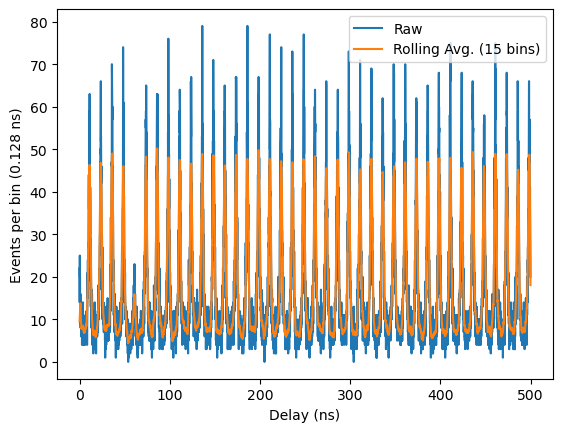
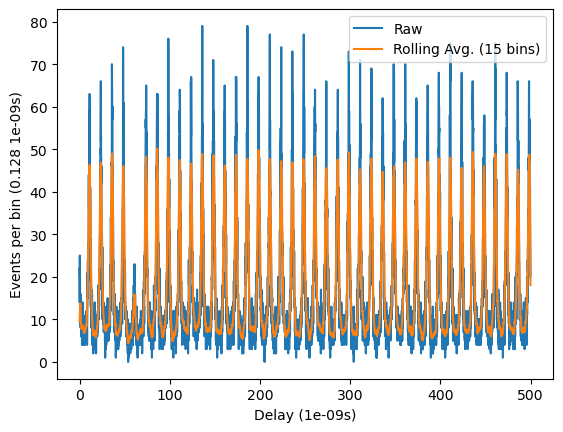
More Plotting Functions Moved
Event history and histogram plots moved to plot.py.

Changed region(s): [[0.0, 0.2106, 0.0604, 0.6921], [0.4529, 0.9329, 0.6341, 0.9931]]

diff --git a/code/eda.py b/code/eda.py
@@ -49,6 +49,10 @@ delay_unit = 1e-9           # 1 nanosecond.
 
 
 for filename_prefix in filename_prefixes:
+    
+    # Prepares save destination for any results.
+    save_prefix = folder_results + filename_prefix
+    
     # Loads data files into a single dataframe.
     # Establishes delay/snapshot arrays, as well as a detection event matrix.
     # WARNING: There is no bug checking. Ensure files are appropriate to merge.
@@ -73,19 +77,7 @@ for filename_prefix in filename_prefixes:
     delay_range = df_delays[df_delays.size-1] - df_delays[0]
     
     # Create a histogram of events across snapshots and plot it.
-    df_hist_snapshot = df_events.sum(axis=0)
-    
-    fig_hist_snapshot, ax_hist_snapshot = plt.subplots()
-    ax_hist_snapshot.plot(range_snapshots, df_hist_snapshot, label="Raw")
-    ax_hist_snapshot.set_xlabel("Snapshot (s)")
-    ax_hist_snapshot.set_ylabel("Events per bin (" 
-                                + str(snapshot_bin_size) + " s)")
-    ax_hist_snapshot.legend()
-    fig_hist_snapshot.savefig(folder_results + filename_prefix + "_events_per_snapshot.png", 
-                              bbox_inches="tight")
-    plt.close(fig_hist_snapshot)
-    
-    
+    plot.plot_event_history(df_events, range_snapshots, save_prefix)
     
     # Sample snapshots of the detection events.
     df_sample_full = df_events.sum(axis=1)
@@ -96,16 +88,9 @@ for filename_prefix in filename_prefixes:
     df_sample_full_smooth = np.convolve(df_sample_full, kernel, mode="same")
     
     # Plot the delay-based histogram of the sample, raw and smoothed.
-    fig_sample, ax_sample = plt.subplots()
-    ax_sample.plot(df_delays/delay_unit, df_sample_full, label="Raw")
-    ax_sample.plot(df_delays/delay_unit, df_sample_full_smooth, 
-                       label="Rolling Avg. (" + str(kernel_size) + " bins)")
-    ax_sample.set_xlabel("Delay (ns)")
-    ax_sample.set_ylabel("Events per bin (" + str(delay_bin_size/delay_unit) + " ns)")
-    ax_sample.legend()
-    fig_sample.savefig(folder_results + filename_prefix + "_hist.png",
-                       bbox_inches="tight")
-    plt.close(fig_sample)
+    plot.plot_event_histogram(df_sample_full, df_delays, delay_unit, save_prefix,
+                              in_hist_comp = df_sample_full_smooth, 
+                              in_label_comp = "Rolling Avg. (" + str(kernel_size) + " bins)")
 
     # Generate domain knowledge on how the histogram should look like.
     domain_knowledge = calc.compile_domain_knowledge(pulse_freq, 
@@ -162,7 +147,6 @@ for filename_prefix in filename_prefixes:
     print("%i estimated g2(0) trajectories across %i snapshots: %f s" 
           % (num_traces, len(range_snapshots), time() - t))
             
-    save_prefix = folder_results + filename_prefix
     plot.plot_traces(trace_g2zero, range_snapshots, save_prefix, "g2zero",
                      in_ylim = [0, 1])
     plot.plot_traces(trace_amp_mpe, range_snapshots, save_prefix, "amp_mpe",

diff --git a/code/plot.py b/code/plot.py
@@ -8,6 +8,39 @@ Created on Wed Nov 16 12:52:15 2022
 import matplotlib.pyplot as plt
 import numpy as np
 
+def plot_event_history(in_df_events, in_axis_time, in_save_prefix):
+    # Create a histogram of events across snapshots and plot it.
+    df_hist_snapshot = in_df_events.sum(axis=0)
+    
+    fig_hist_snapshot, ax_hist_snapshot = plt.subplots()
+    ax_hist_snapshot.plot(in_axis_time, df_hist_snapshot, label="Raw")
+    ax_hist_snapshot.set_xlabel("Snapshot (s)")
+    ax_hist_snapshot.set_ylabel("Events per bin (" 
+                                + str(in_axis_time[1] - in_axis_time[0]) + " s)")
+    ax_hist_snapshot.legend()
+    fig_hist_snapshot.savefig(in_save_prefix + "_events_per_snapshot.png", 
+                              bbox_inches="tight")
+    plt.close(fig_hist_snapshot)
+
+
+def plot_event_histogram(in_hist, in_axis_delays, in_delay_unit, in_save_prefix,
+                         in_hist_comp = None, in_label_comp = None):
+    # Plot a delay-based histogram.
+    # Optionally compare it against another function on the same axis.
+    fig_sample, ax_sample = plt.subplots()
+    ax_sample.plot(in_axis_delays/in_delay_unit, in_hist, label="Raw")
+    if (in_hist_comp is not None) and (in_label_comp is not None):
+        ax_sample.plot(in_axis_delays/in_delay_unit, in_hist_comp,
+                       label=in_label_comp)
+    ax_sample.set_xlabel("Delay (%ss)" % in_delay_unit)
+    events_per_bin = (in_axis_delays[1]-in_axis_delays[0])/in_delay_unit
+    ax_sample.set_ylabel("Events per bin (%s %ss)" % (events_per_bin, in_delay_unit))
+    ax_sample.legend()
+    fig_sample.savefig(in_save_prefix + "_hist.png",
+                       bbox_inches="tight")
+    plt.close(fig_sample)
+
+
 def plot_traces(in_trace_matrix, in_axis_time, 
                 in_save_prefix, in_var_name, in_save_suffix = None, 
                 in_ylim = None):
